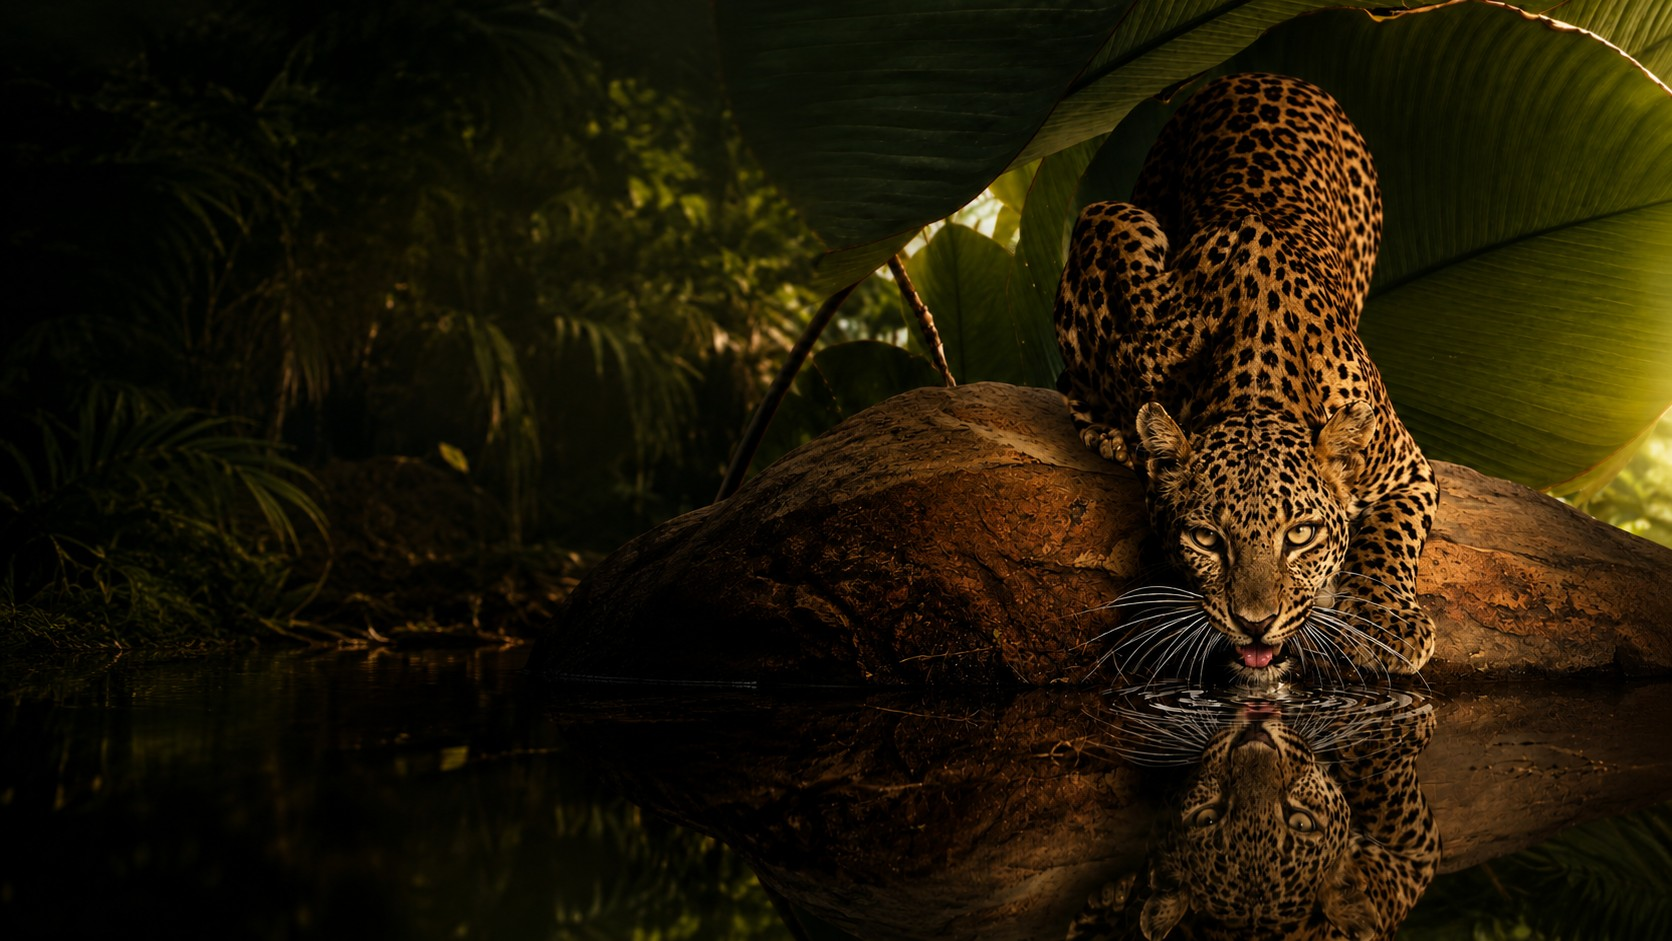
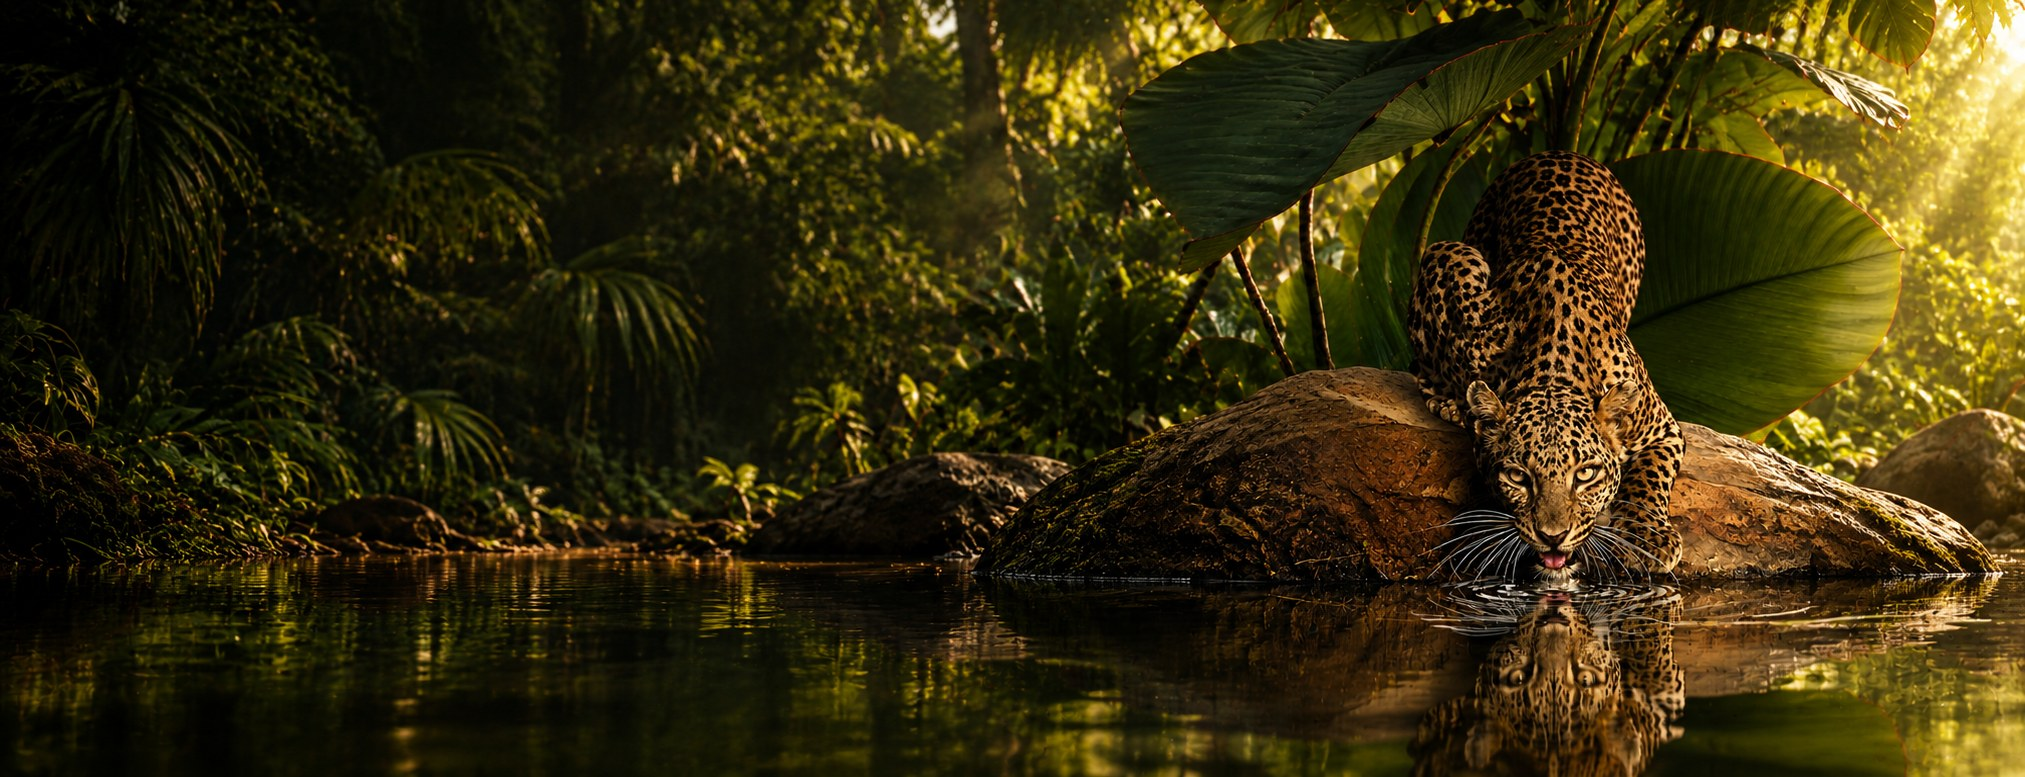
Add files via upload

diff --git a/style.css b/style.css
@@ -4149,3 +4149,131 @@ section{padding:var(--v-sec) var(--pad)!important}
       transparent 46%,rgba(14,9,5,.5) 72%,rgba(14,9,5,.76) 100%)!important}
   .fc-scrim{height:44%!important}
 }
+
+/* ═══════════════════════════════════════════════════════════════
+   65. A ONÇA · A PAUSA ANTES DO CONVITE
+   ═══════════════════════════════════════════════════════════════
+   Depois de nove seções argumentando, uma tela sem argumento
+   nenhum. Só a imagem, a marca e uma legenda curta. É a respiração
+   que faz o formulário seguinte parecer convite, e não mais uma
+   seção — e é onde a onça, que atravessa o site inteiro escondida
+   nos cantos como easter egg, finalmente aparece por inteiro.
+
+   Sem padding de seção: ela é sangria total, de borda a borda.
+   ═══════════════════════════════════════════════════════════════ */
+.onca{position:relative;padding:0!important;overflow:hidden;
+  min-height:clamp(440px,74svh,760px);
+  display:flex;align-items:flex-end;background:#0B0A06}
+
+.onca-foto{position:absolute;inset:0;z-index:1;
+  background:url(onca.jpg) center 46%/cover no-repeat;
+  transform:scale(1.04);transform-origin:center 40%;
+  transition:transform 1.6s cubic-bezier(.16,1,.3,1)}
+.onca.in .onca-foto{transform:scale(1)}
+
+/* o véu abre espaço para o texto sem apagar a floresta:
+   escuro embaixo à esquerda, transparente onde a onça está */
+.onca-veu{position:absolute;inset:0;z-index:2;pointer-events:none;
+  background:
+    linear-gradient(74deg,rgba(6,5,3,.86) 0%,rgba(6,5,3,.52) 30%,transparent 58%),
+    linear-gradient(180deg,rgba(6,5,3,.5) 0%,transparent 26%,
+      transparent 52%,rgba(6,5,3,.72) 100%)}
+
+.onca-in{position:relative;z-index:3;width:100%;
+  padding:0 var(--pad) clamp(38px,6vw,74px)}
+
+.onca-tit{font-family:var(--serif);font-weight:400;
+  font-size:var(--t-titulo);line-height:.94;letter-spacing:-.015em;
+  color:var(--branco);margin:0;
+  text-shadow:0 4px 40px rgba(0,0,0,.6)}
+
+.onca-leg{display:flex;align-items:center;gap:14px;
+  margin:clamp(14px,1.6vw,22px) 0 0;
+  font-family:var(--serif);font-style:italic;font-weight:400;
+  font-size:var(--t-lead);line-height:1.3;
+  color:var(--marca-lit);letter-spacing:.005em;
+  text-shadow:0 2px 20px rgba(0,0,0,.6)}
+.onca-leg s{flex:none;width:clamp(28px,3vw,48px);height:1px;
+  text-decoration:none;background:var(--marca);opacity:.75}
+
+@media(max-width:640px){
+  .onca{min-height:78svh}
+  .onca-foto{background-image:url(onca-mob.jpg);
+    background-position:center 34%}
+  .onca-veu{background:linear-gradient(180deg,
+    rgba(6,5,3,.42) 0%,transparent 22%,
+    transparent 44%,rgba(6,5,3,.72) 76%,rgba(6,5,3,.9) 100%)}
+  .onca-in{padding-bottom:clamp(34px,7vw,52px)}
+  .onca-leg{gap:11px}
+  .onca-leg s{width:24px}
+}
+@media(prefers-reduced-motion:reduce){
+  .onca-foto{transition:none;transform:none}
+}
+
+/* ═══════════════════════════════════════════════════════════════
+   66. OS MINUTOS COM MAIS INTENSIDADE
+   ═══════════════════════════════════════════════════════════════
+   O efeito funciona, mas a diferença entre o ponto mais claro e o
+   mais escuro do degradê era pequena demais para o olho registrar
+   a onda passando. Três ajustes, todos na mesma direção:
+
+   · a crista fica mais clara e mais estreita, então ela LÊ como
+     luz e não como variação de tinta;
+   · o vale fica mais escuro, o que aumenta o contraste interno
+     sem clarear nada no conjunto;
+   · o ciclo encurta de 4,6s para 3,4s, e o atraso entre números
+     cai de 0,22 para 0,17 — a onda fica mais coesa, mais parecida
+     com uma coisa só atravessando cinco algarismos.
+   ═══════════════════════════════════════════════════════════════ */
+.regua-min b{
+  background-image:linear-gradient(100deg,
+    #2A0D01 0%,#3E1503 20%,#7A3A14 38%,
+    #C98A4E 47%,#E8B478 50%,#C98A4E 53%,
+    #7A3A14 62%,#3E1503 80%,#2A0D01 100%)!important;
+  background-size:340% 100%!important;
+  animation-duration:3.4s!important}
+.regua-min li:nth-child(1) b{animation-delay:0s!important}
+.regua-min li:nth-child(2) b{animation-delay:.17s!important}
+.regua-min li:nth-child(3) b{animation-delay:.34s!important}
+.regua-min li:nth-child(4) b{animation-delay:.51s!important}
+.regua-min li:nth-child(5) b{animation-delay:.68s!important}
+
+/* os fios entre os números acompanham a passagem da luz, bem de
+   leve: sem isso a régua parecia partida em cinco pedaços */
+.regua-min li+li::before{opacity:.26}
+
+/* ═══════════════════════════════════════════════════════════════
+   67. A ONÇA NOVA · ENQUADRAMENTO EXATO E VÉU ALIVIADO
+   ═══════════════════════════════════════════════════════════════
+   As imagens novas chegaram nas proporções certas — 2,606:1 no
+   computador e 0,593:1 no celular — então o navegador não precisa
+   mais esticar nada para encher a área. O background-position
+   volta para o centro: com a proporção batendo, centralizar é o
+   único enquadramento que não sacrifica lado nenhum.
+
+   E o véu pode aliviar. Medi a luminância exatamente onde o texto
+   pousa: 53 no canto inferior esquerdo do computador, 73 no
+   rodapé do celular — os dois já abaixo dos 88 que o creme precisa
+   para ler com folga. A foto se protege sozinha. O véu que estava
+   lá foi calibrado para a imagem ANTERIOR, que era mais clara
+   naquelas zonas, e agora só estava apagando floresta à toa.
+
+   Fica um véu leve, de segurança: garante a leitura em telas que
+   cortem diferente, sem roubar a mata.
+   ═══════════════════════════════════════════════════════════════ */
+.onca-foto{background-position:center center!important}
+
+.onca-veu{background:
+  /* protege o canto do texto, e só ele */
+  linear-gradient(78deg,rgba(6,5,3,.62) 0%,rgba(6,5,3,.28) 26%,transparent 50%),
+  /* fecha as bordas de cima e de baixo, bem de leve */
+  linear-gradient(180deg,rgba(6,5,3,.26) 0%,transparent 18%,
+    transparent 70%,rgba(6,5,3,.34) 100%)!important}
+
+@media(max-width:640px){
+  .onca-foto{background-position:center center!important}
+  .onca-veu{background:linear-gradient(180deg,
+    rgba(6,5,3,.2) 0%,transparent 16%,
+    transparent 52%,rgba(6,5,3,.4) 78%,rgba(6,5,3,.66) 100%)!important}
+}

diff --git a/index.html b/index.html
@@ -460,6 +460,20 @@
  </div>
 </section>
 
+<!-- ═══ A ONÇA · respiro entre o protótipo e o formulário ═══════
+     Uma tela inteira sem argumento nenhum. Depois de nove seções
+     explicando, o site cala a boca e mostra. É a pausa que faz o
+     convite seguinte parecer convite, e não mais uma seção.
+     ══════════════════════════════════════════════════════════ -->
+<section id="onca" class="onca" aria-label="Control Your Experience">
+  <div class="onca-foto"></div>
+  <div class="onca-veu"></div>
+  <div class="onca-in">
+    <h2 class="onca-tit reveal">Control Your<br>Experience</h2>
+    <p class="onca-leg reveal"><s aria-hidden="true"></s>onde a onça bebe água</p>
+  </div>
+</section>
+
 <section id="contato" style="background:var(--bg2)">
  <div class="wrap">
   <div class="conv">
@@ -1455,15 +1469,42 @@ if(semMovimento){
   const grade=document.getElementById('perfisGrid');
   const emLinha=()=>grade && cartoes[0] && grade.offsetWidth > cartoes[0].offsetWidth*1.6;
 
+  /* ── TEMPO DE CONTEMPLAÇÃO ──────────────────────────────────
+     O gatilho estava em 0.80: a chapa abria assim que a borda de
+     cima do cartão entrava pela base da tela. No celular isso
+     significa que, quando o polegar termina o gesto e os olhos
+     chegam no cartão, a abertura JÁ ACONTECEU. A pessoa via o
+     resultado, nunca o gesto — e o corten, que é a matéria da
+     marca inteira, passava despercebido.
+
+     Duas correções. O gatilho fica muito mais tarde (o cartão
+     precisa estar de fato ocupando a tela), e entra uma espera
+     depois dele: um segundo inteiro de corten parado no celular,
+     meio segundo no computador, onde os três já entram juntos e
+     o intervalo entre eles já cria o ritmo.
+     ──────────────────────────────────────────────────────── */
+  const noCelular = innerWidth<=640;
+  const ESPERA    = noCelular ? 1000 : 520;
+
   if(cartoes.length){
     if(emLinha()){
       aoAparecer(grade,()=>{
-        cartoes.forEach((c,i)=>setTimeout(()=>c.classList.add('aberto'), i*700));
-      },0.80);
+        setTimeout(()=>{
+          cartoes.forEach((c,i)=>setTimeout(()=>c.classList.add('aberto'), i*700));
+        },ESPERA);
+      },0.62);
     }else{
-      cartoes.forEach(c=>aoAparecer(c,e=>e.classList.add('aberto'),0.80));
+      /* no celular o gatilho é 0.46: o topo do cartão já passou da
+         metade da tela, então ele está inteiro à vista antes de abrir */
+      cartoes.forEach(c=>aoAparecer(c,e=>{
+        setTimeout(()=>e.classList.add('aberto'),ESPERA);
+      },0.46));
     }
   }
+
+  /* a onça entra com um recuo lento de câmera: a foto começa
+     4% maior e assenta no lugar enquanto a seção sobe */
+  aoAparecer(document.getElementById('onca'),e=>e.classList.add('in'),0.9);
 
   /* ── PLACAS DE TEMA · a onda ───────────────────────────────
      Lado a lado no computador: espiam em cascata de 0,2s e viram
